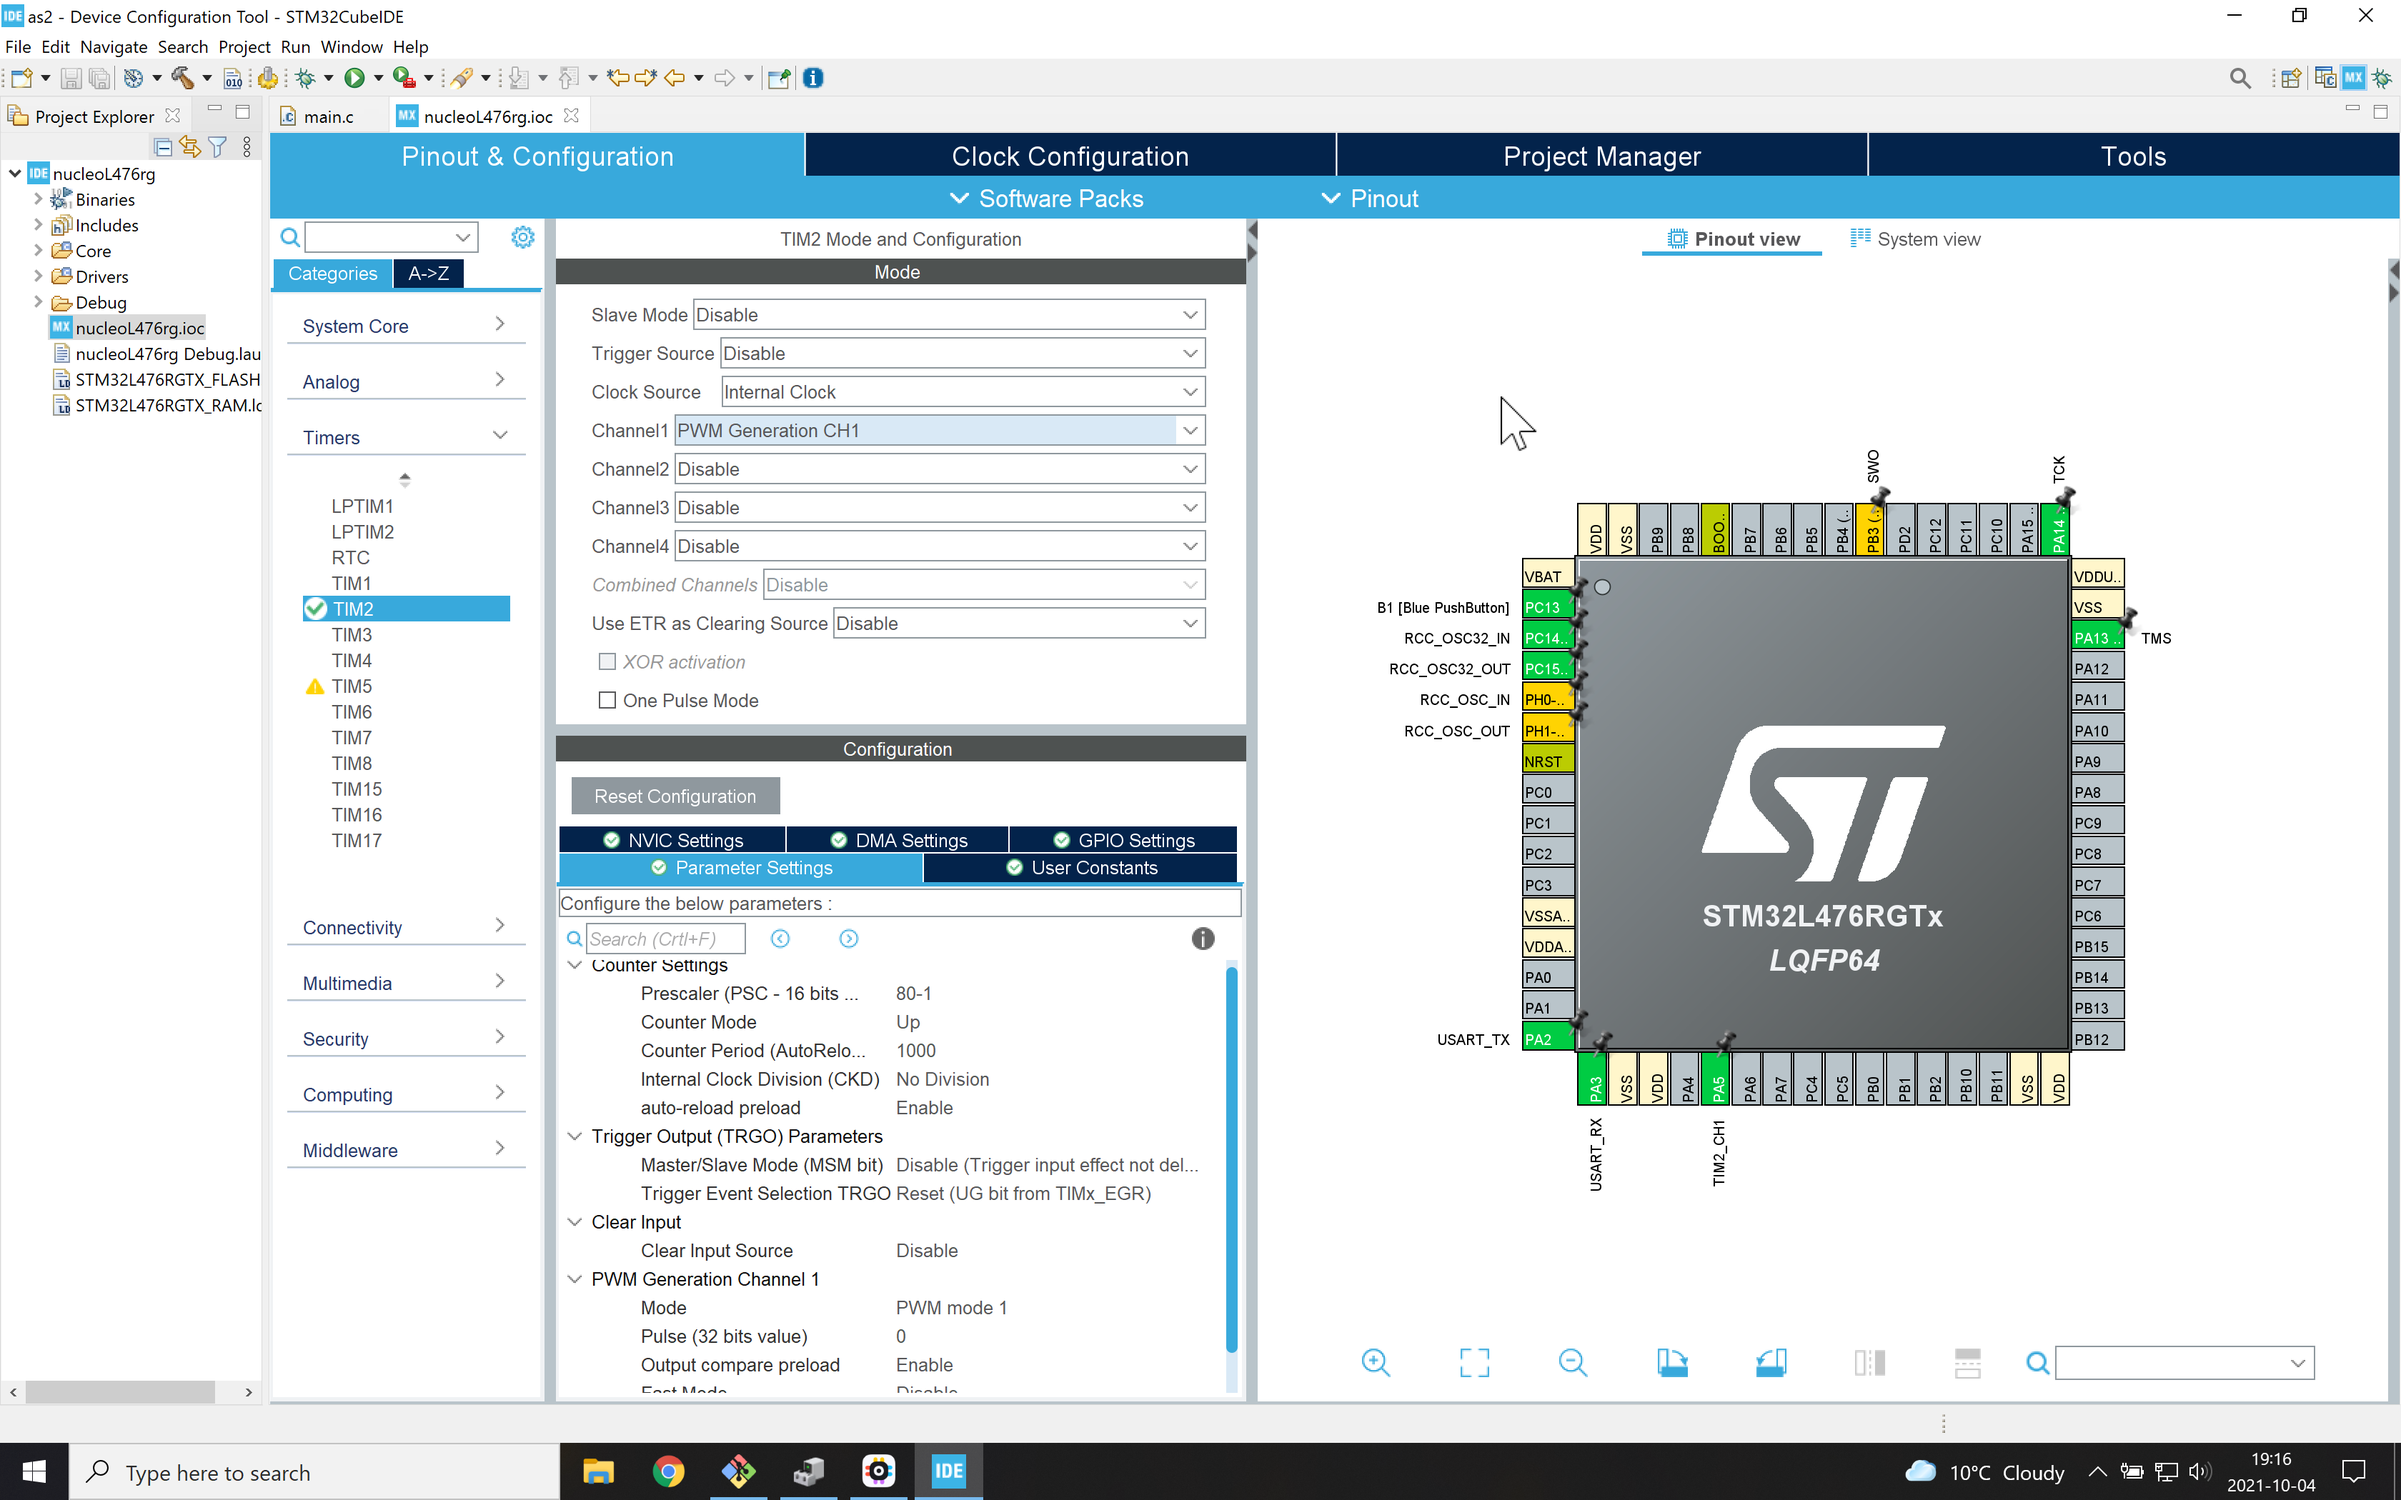
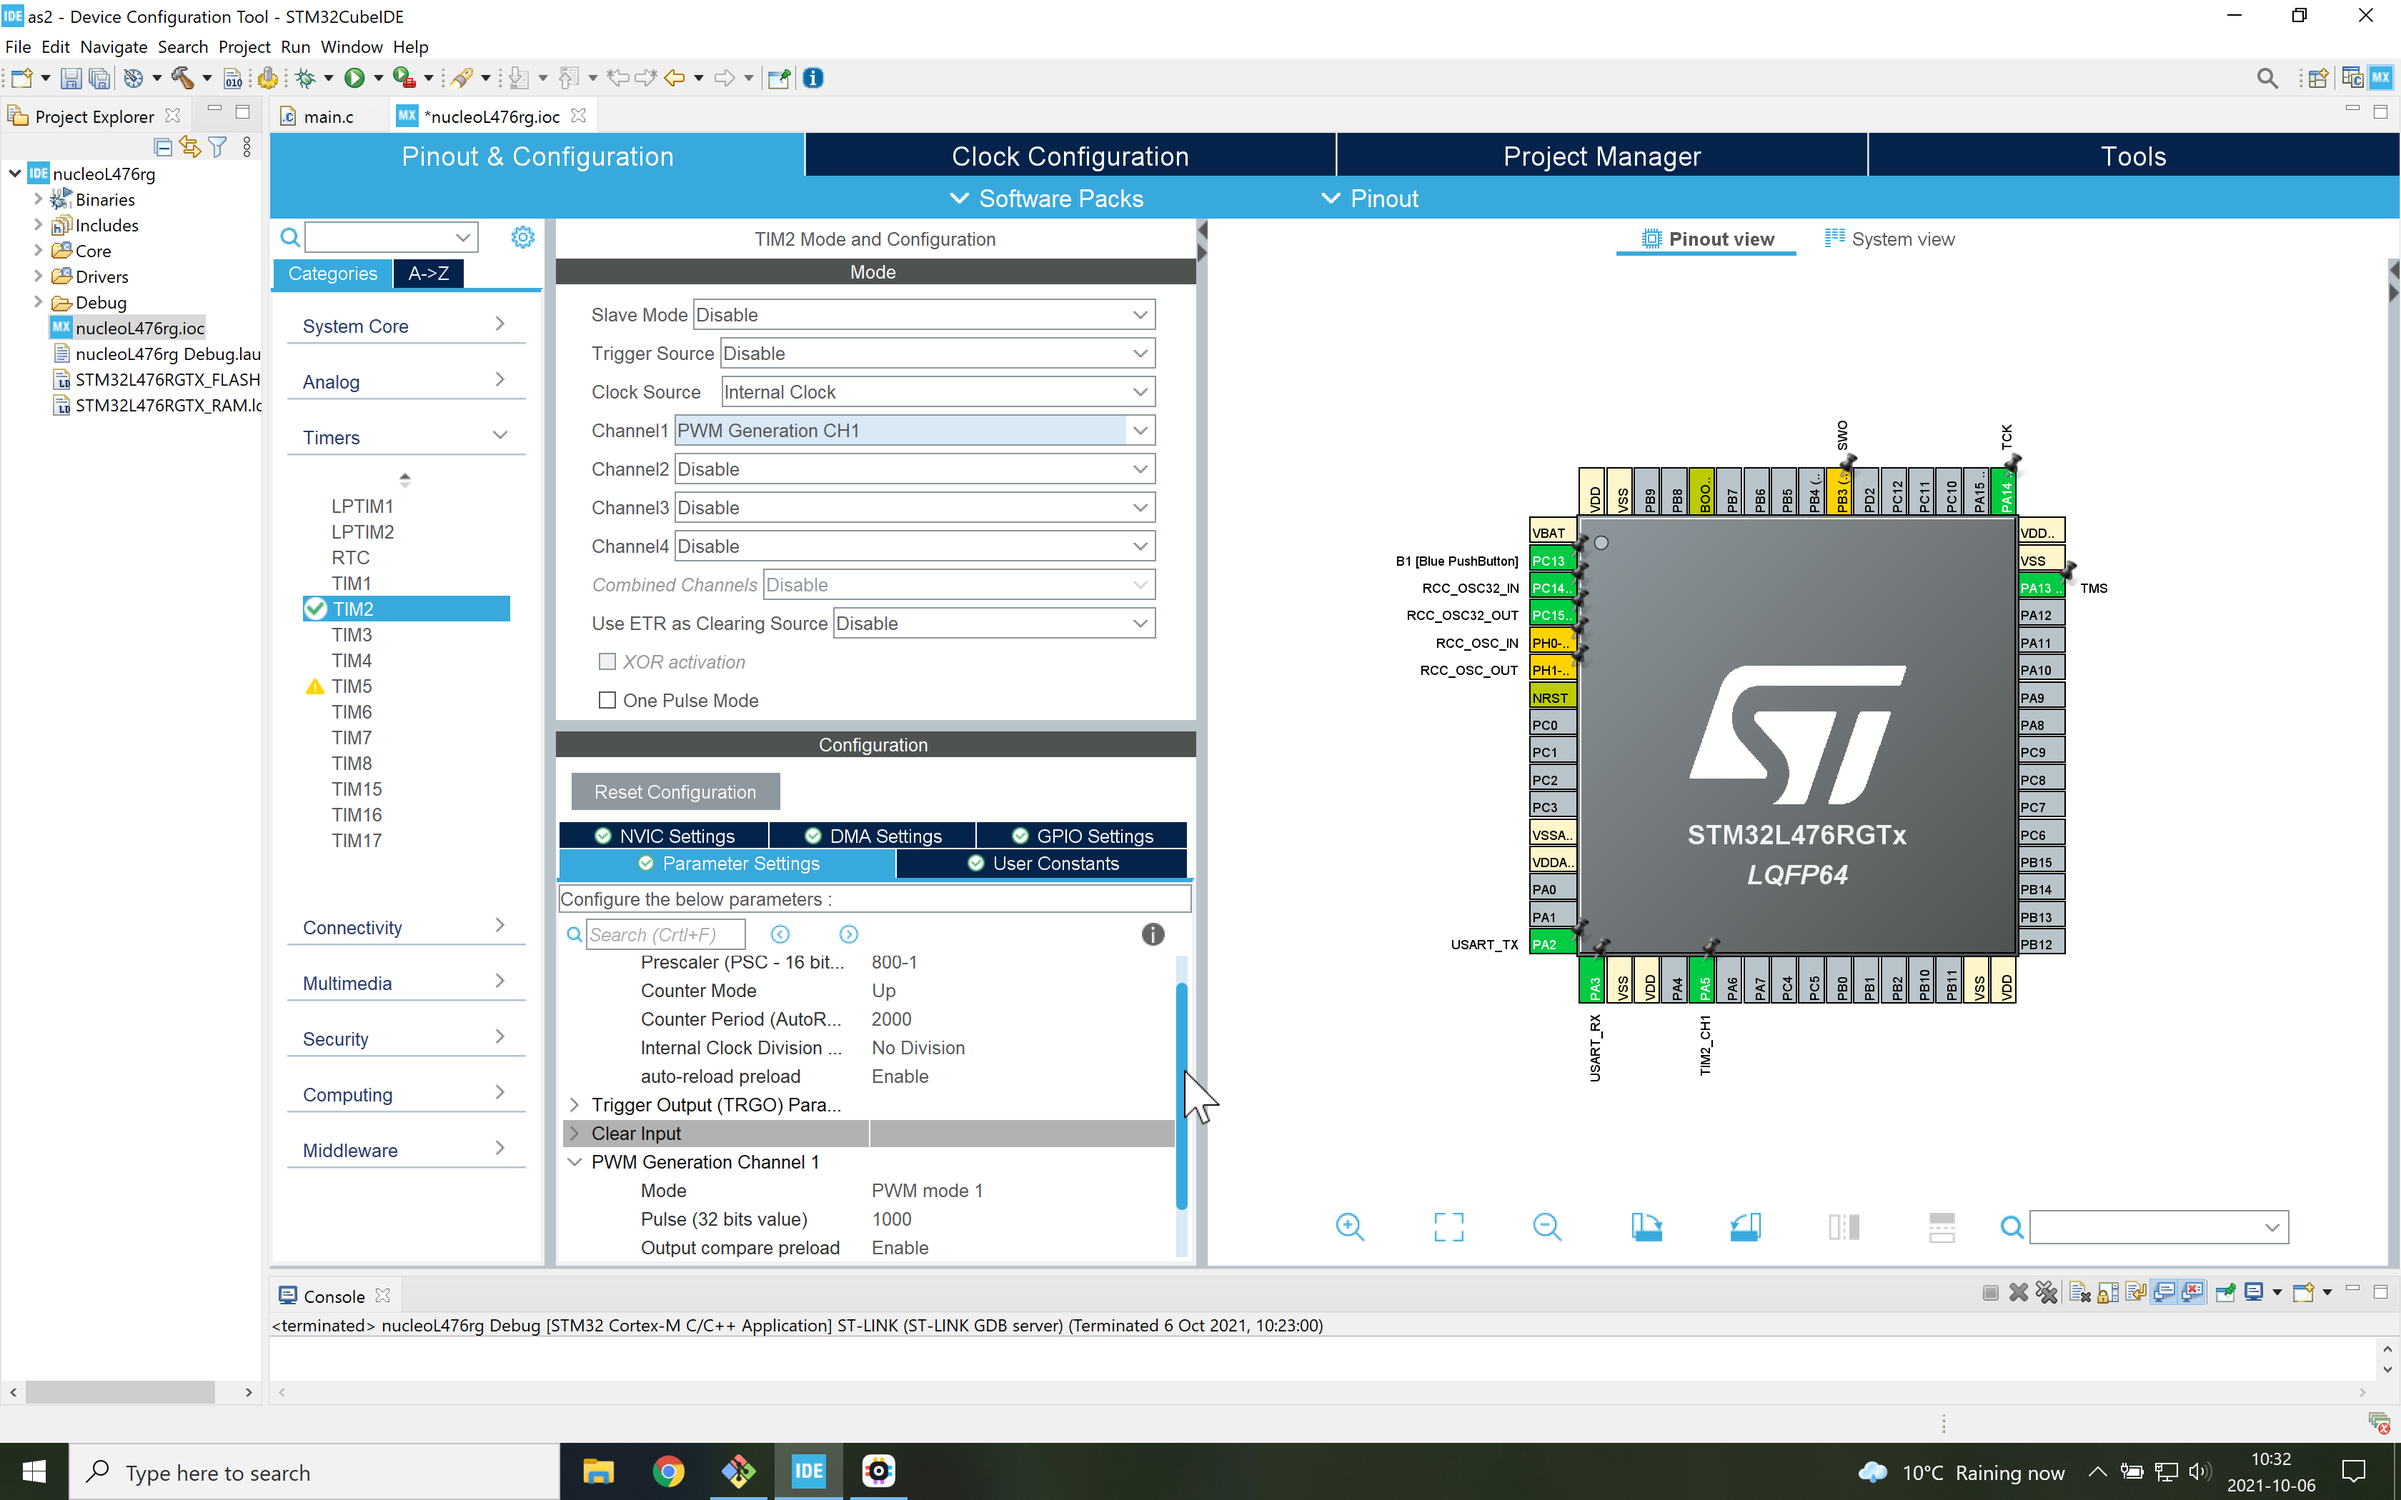
Update documentation for period change

diff --git a/README.md b/README.md
@@ -4,8 +4,10 @@ The point of this branch is to start playing with timers and counters to form pu
 We use the on-board green LED to brighten it and then dim it, before repeating the process again.
 That is the on-pulse gets wider and wider before shrinking it again.
 
-The green LED is associated with Timer 2. The clock frequency is 80 MHz, which we reduce down to 1 MHz. With a saw tooth pattern of 1000 counts, we toggle the LED when CCR1 is reached.
+The green LED is associated with Timer 2. The clock frequency is 80 MHz, which we reduce down to 100 kHz. With a saw tooth pattern of 2000 counts, we toggle the LED when [CCR1](Capture/Compare register 1) is reached.
 
 For more information on general-purpose timers for STM32 microcontrollers on can look at the ST [cookbook](https://www.st.com/resource/en/application_note/dm00236305-generalpurpose-timer-cookbook-for-stm32-microcontrollers-stmicroelectronics.pdf) (AN4776)
+
+Note that updating the pulse width in the main() function might not be wise if  there happen to be a blocking function.
 
 ![breathingLED](tim2Setup.png)
